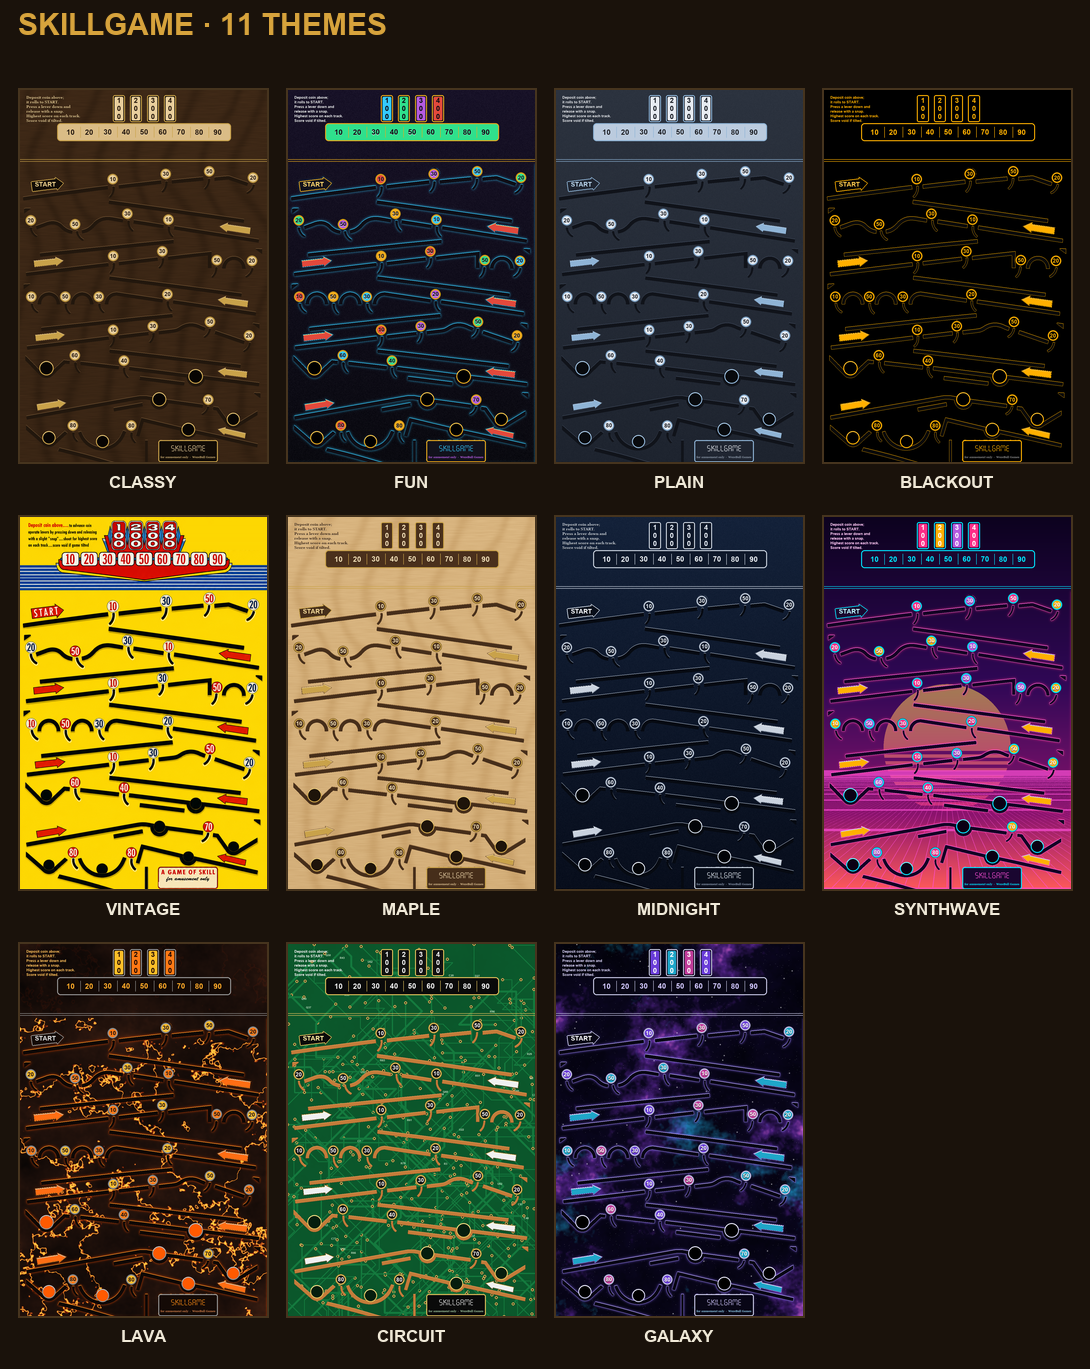
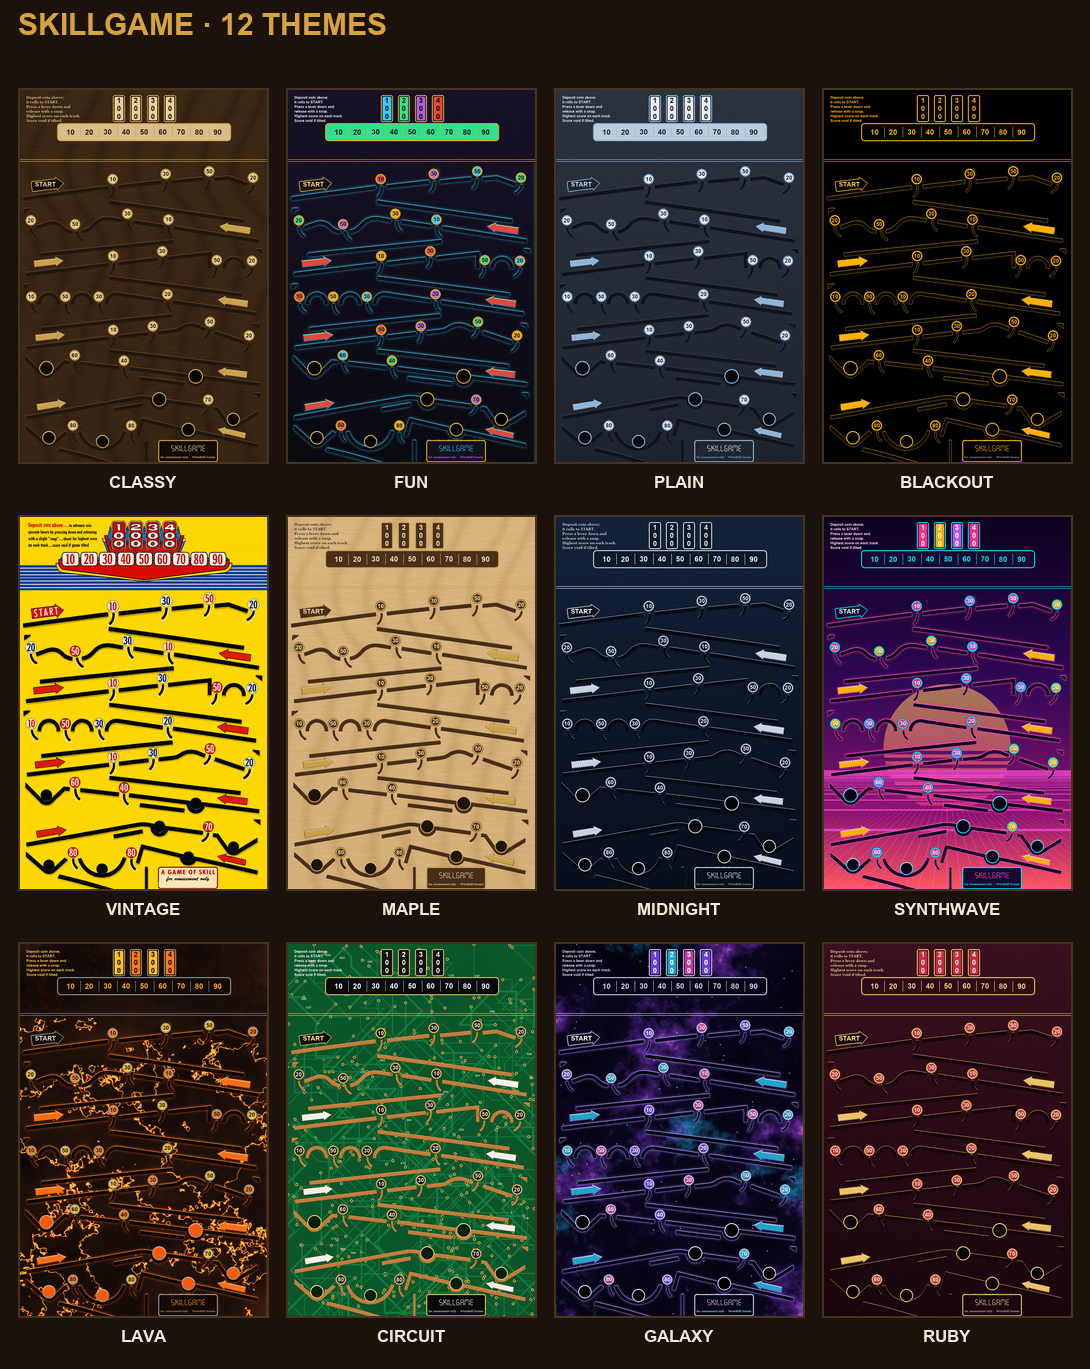
Docs: refresh the themes gallery to all 12 (add Ruby)
Regenerated docs/themes.png with the Ruby board and bumped the README +
CHANGELOG theme count from 11 to 12.

Changed region(s): [[0.7486, 0.6749, 0.9982, 0.9817], [0.2183, 0.0, 0.2495, 0.0307]]

diff --git a/README.md b/README.md
@@ -40,7 +40,7 @@ The player rolls a physical coin up the playfield. It rides the rails, skims the
 - 🔧 **Diagnostics** — a live switch map and lamp map, a one-touch **Self-Test** that lights every lamp / pulses the coils / sweeps the LED strip, per-lamp **Identify** blink, and **stuck-switch** detection that turns a tile solid red.
 - 📊 **Audits** — plays, wins, hits, high scores and time played, watched over by the auditor gremlin. Demo/attract games are excluded, so the numbers only count real play.
 - 🛠 **Service** — a single-screen operator console for volume, quiet hours, tilt sensitivity and the rest.
-- 🎨 **11 themes** — Classy, Fun, Plain, Blackout, Vintage, Maple, Midnight, Synthwave, Lava, Circuit, Galaxy; each reskins the whole UI *and* the playfield art. (Settings → Theme)
+- 🎨 **12 themes** — Classy, Fun, Plain, Blackout, Vintage, Maple, Midnight, Synthwave, Lava, Circuit, Galaxy, Ruby; each reskins the whole UI *and* the playfield art. (Settings → Theme)
 - ⬆ **In-app software updates** — checks the WezeBull server, shows the release notes, and installs **any** version forward or back (Service → Check for Updates); it flags new versions on boot. Updates are unzip-and-copy + relaunch — no PC reboot.
 - 🗺 **Interactive schematic page** — a clickable system diagram with crossing-free animated wiring, plus one-tap access to the BOM, fuses, system hookup, full schematic, FT232H pinout and a 3D board viewer.
 - 👻 **Attract / demo mode** — with no boards attached the app plays itself, so you can see the whole thing run on a laptop.
@@ -57,11 +57,11 @@ The player rolls a physical coin up the playfield. It rides the rails, skims the
 
 ## Themes
 
-Pick a look in **Settings → Theme**. Each of the **11 themes** reskins the whole UI *and* the playfield art — and every board below is geometry-matched to the original, so the coin paths never move:
+Pick a look in **Settings → Theme**. Each of the **12 themes** reskins the whole UI *and* the playfield art — and every board below is geometry-matched to the original, so the coin paths never move:
 
 ![SkillGame themes](docs/themes.png)
 
-**Classy** (walnut &amp; brass, the default) · **Fun** (arcade neon) · **Plain** (cool slate) · **Blackout** (OLED black &amp; amber) · **Vintage** (the 1949 look) · **Maple** · **Midnight** (navy &amp; chrome) · **Synthwave** · **Lava** · **Circuit** · **Galaxy**.
+**Classy** (walnut &amp; brass, the default) · **Fun** (arcade neon) · **Plain** (cool slate) · **Blackout** (OLED black &amp; amber) · **Vintage** (the 1949 look) · **Maple** · **Midnight** (navy &amp; chrome) · **Synthwave** · **Lava** · **Circuit** · **Galaxy** · **Ruby** (garnet &amp; gold).
 
 ## Hardware
 

diff --git a/CHANGELOG.md b/CHANGELOG.md
@@ -4,7 +4,7 @@ Every released version and what changed. The in-app updater (Service → Check f
 shows these notes before installing. Cut a new release with `tools/publish-update.ps1`.
 
 ## Unreleased
-- **11 UI themes** (Settings → Theme): Classy, Fun, Plain, Blackout, Vintage, Maple, Midnight, Synthwave, Lava, Circuit, Galaxy — each reskins the whole UI and the playfield art.
+- **12 UI themes** (Settings → Theme): Classy, Fun, Plain, Blackout, Vintage, Maple, Midnight, Synthwave, Lava, Circuit, Galaxy, Ruby — each reskins the whole UI and the playfield art.
 - **Original wood playfield** replaces the Bally artwork (same rail/hole layout, so coin paths are unchanged).
 - **Updater hardened** — unzip + copy + relaunch only; no PC reboot and no temp script (that pattern tripped endpoint security).
 - **Install any version** — the updater lists every release and installs forward or back, with the latest tagged; auto-checks on boot + every 6 h.
